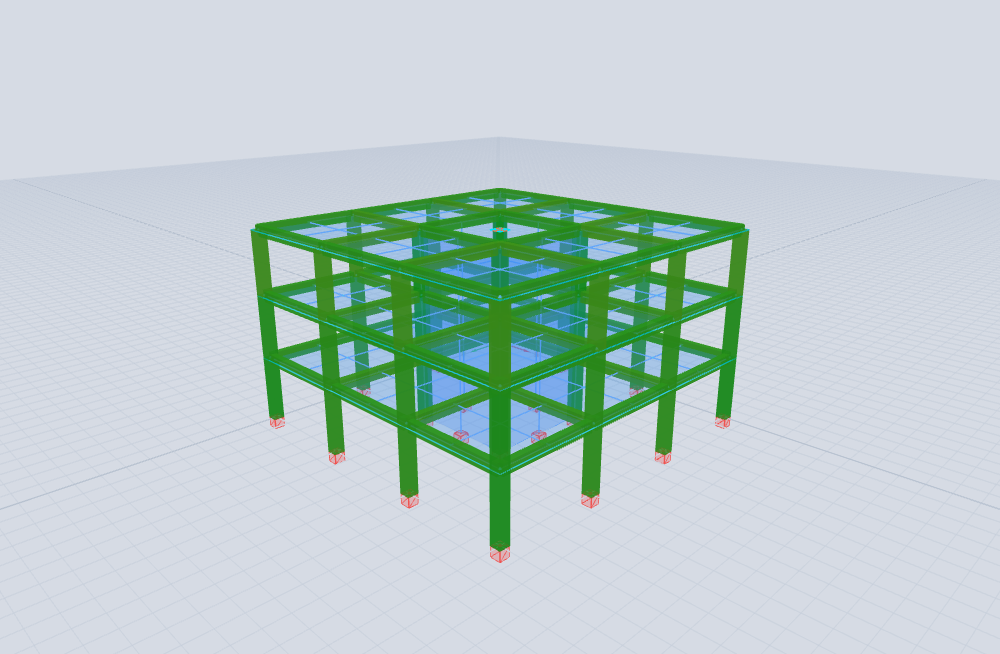
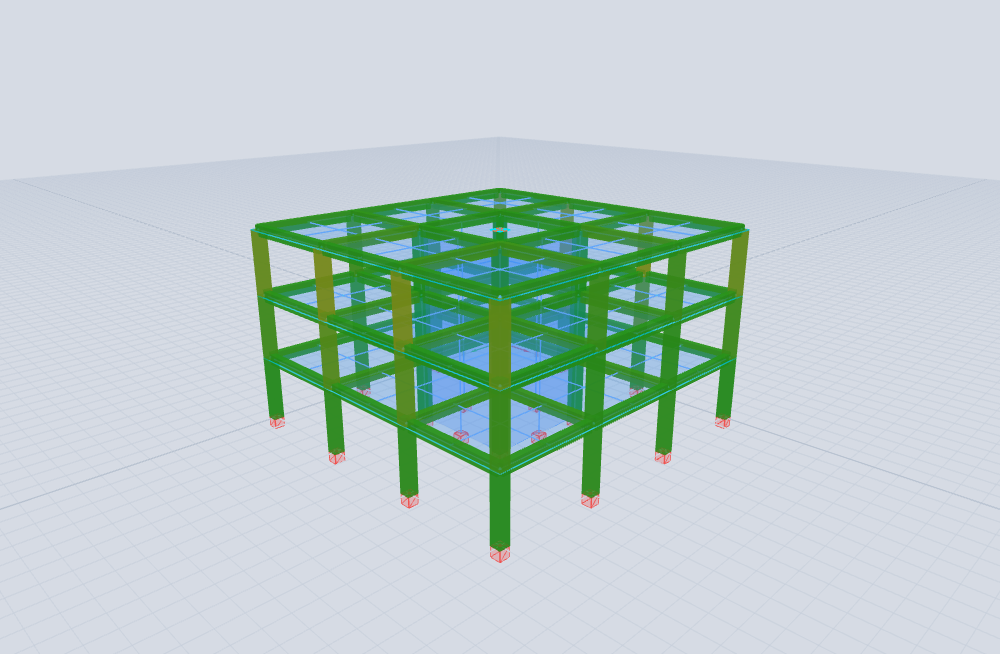
docs(tutorial): correct Tutorial 1 design D/C with the fixed engine
The design engine (see the _computeDesign fix) now reports columns D/C 0.34
(P–M interaction) and beams 0.17 (shear) over the ULS-combo envelope — more
complete than the hand-rolled end-force estimate the tutorial first used.
Updated the numbers and re-captured the (all-green) D/C map.

diff --git a/docs/tutorials/01-valdivia-nch433.es.md b/docs/tutorials/01-valdivia-nch433.es.md
@@ -128,15 +128,15 @@ y reporta la razón demanda/capacidad (D/C):
 
 | Miembro | Sección · armadura | cantidad | max D/C | Gobierna | Estado |
 | --- | --- | --- | --- | --- | --- |
-| Pilares | 50 × 50 · 8Φ25 | 48 | **0.17** | interacción / corte | ✓ cumple |
+| Pilares | 50 × 50 · 8Φ25 | 48 | **0.34** | interacción P–M | ✓ cumple |
 | Vigas | 30 × 50 · 3Φ22 | 72 | **0.17** | corte | ✓ cumple |
 
-Todos los miembros están muy por debajo de su capacidad (D/C ≤ 0.17). El mapa de color es
-uniformemente verde — todas las vigas y pilares cumplen holgadamente. **Gobierna la gravedad** (la
-demanda sísmica es mínima porque la caja rígida mantiene bajas las fuerzas), por eso la combinación
-gobernante es `1.2·CM + 1.6·CV`.
+Todos los miembros están muy por debajo de su capacidad (pilares D/C ≤ 0.34 en interacción
+axial–flexión, vigas ≤ 0.17 en corte). El mapa de color es uniformemente verde — todas las vigas y
+pilares cumplen holgadamente. La caja rígida mantiene baja la demanda sísmica, así que las demandas
+están dominadas por la gravedad.
 
-![Mapa D/C de diseño — todos los miembros en verde (D/C ≤ 0.17): el diseño cumple.](img/t1-09-design-dc.png)
+![Mapa D/C de diseño — todos los miembros en verde (D/C ≤ 0.34): el diseño cumple.](img/t1-09-design-dc.png)
 
 *Figura 7. Mapa demanda/capacidad — vigas y pilares holgadamente dentro de capacidad.*
 
@@ -161,8 +161,8 @@ edificio rígido de muros.
 - En **suelo D** con un edificio de período corto, el `R*` de NCh433 es bajo (2.4 aquí): la rigidez no
   significa automáticamente una fuerza sísmica pequeña, pero aquí los desplazamientos quedan chicos de
   todas formas.
-- Con la **gravedad gobernando**, los miembros de pórtico quedan holgadamente diseñados (D/C ≤ 0.17) y
-  las derivas son ~10 % del límite NCh433.
+- Los miembros de pórtico quedan holgadamente diseñados (pilares D/C ≤ 0.34 en interacción P–M, vigas
+  ≤ 0.17 en corte) y las derivas son ~10 % del límite NCh433.
 
 <sub>Modelo: `examples/tutorial1_valdivia.s3d` (construido por `tools/examples/build_valdivia.mjs`). Ver
 el [Manual de Análisis](../analysis-reference.es.md) para la teoría y el

diff --git a/docs/tutorials/01-valdivia-nch433.md b/docs/tutorials/01-valdivia-nch433.md
@@ -126,14 +126,14 @@ and reports the demand/capacity ratio (D/C):
 
 | Member | Section · rebar | count | max D/C | Governs | Status |
 | --- | --- | --- | --- | --- | --- |
-| Columns | 50 × 50 · 8Φ25 | 48 | **0.17** | interaction / shear | ✓ passes |
+| Columns | 50 × 50 · 8Φ25 | 48 | **0.34** | P–M interaction | ✓ passes |
 | Beams | 30 × 50 · 3Φ22 | 72 | **0.17** | shear | ✓ passes |
 
-Every member is well below its capacity (D/C ≤ 0.17). The colour map is uniformly green — all beams
-and columns pass comfortably. **Gravity governs** (the seismic demand is tiny because the stiff core
-keeps the forces low), which is why the governing combination is `1.2·CM + 1.6·CV`.
+Every member is well below its capacity (columns D/C ≤ 0.34 in axial–flexural interaction, beams ≤ 0.17
+in shear). The colour map is uniformly green — all beams and columns pass comfortably. The stiff core
+keeps the seismic demand small, so the demands are dominated by gravity.
 
-![Design D/C map — all frame members green (D/C ≤ 0.17): the design passes.](img/t1-09-design-dc.png)
+![Design D/C map — all frame members green (D/C ≤ 0.34): the design passes.](img/t1-09-design-dc.png)
 
 *Figure 7. Demand/capacity map — beams and columns comfortably within capacity.*
 
@@ -157,8 +157,8 @@ core-wall building.
   the translational drifts are tiny.
 - On **soil D** with a short-period building, NCh433's `R*` is low (2.4 here): stiffness does not
   automatically mean a small seismic force, but here the displacements stay small anyway.
-- With **gravity governing**, the frame members are comfortably designed (D/C ≤ 0.17) and the drifts
-  are ~10 % of the NCh433 limit.
+- The frame members are comfortably designed (columns D/C ≤ 0.34 in P–M interaction, beams ≤ 0.17 in
+  shear) and the drifts are ~10 % of the NCh433 limit.
 
 <sub>Model: `examples/tutorial1_valdivia.s3d` (built by `tools/examples/build_valdivia.mjs`). See the
 [Analysis Reference Manual](../analysis-reference.md) for the theory and the